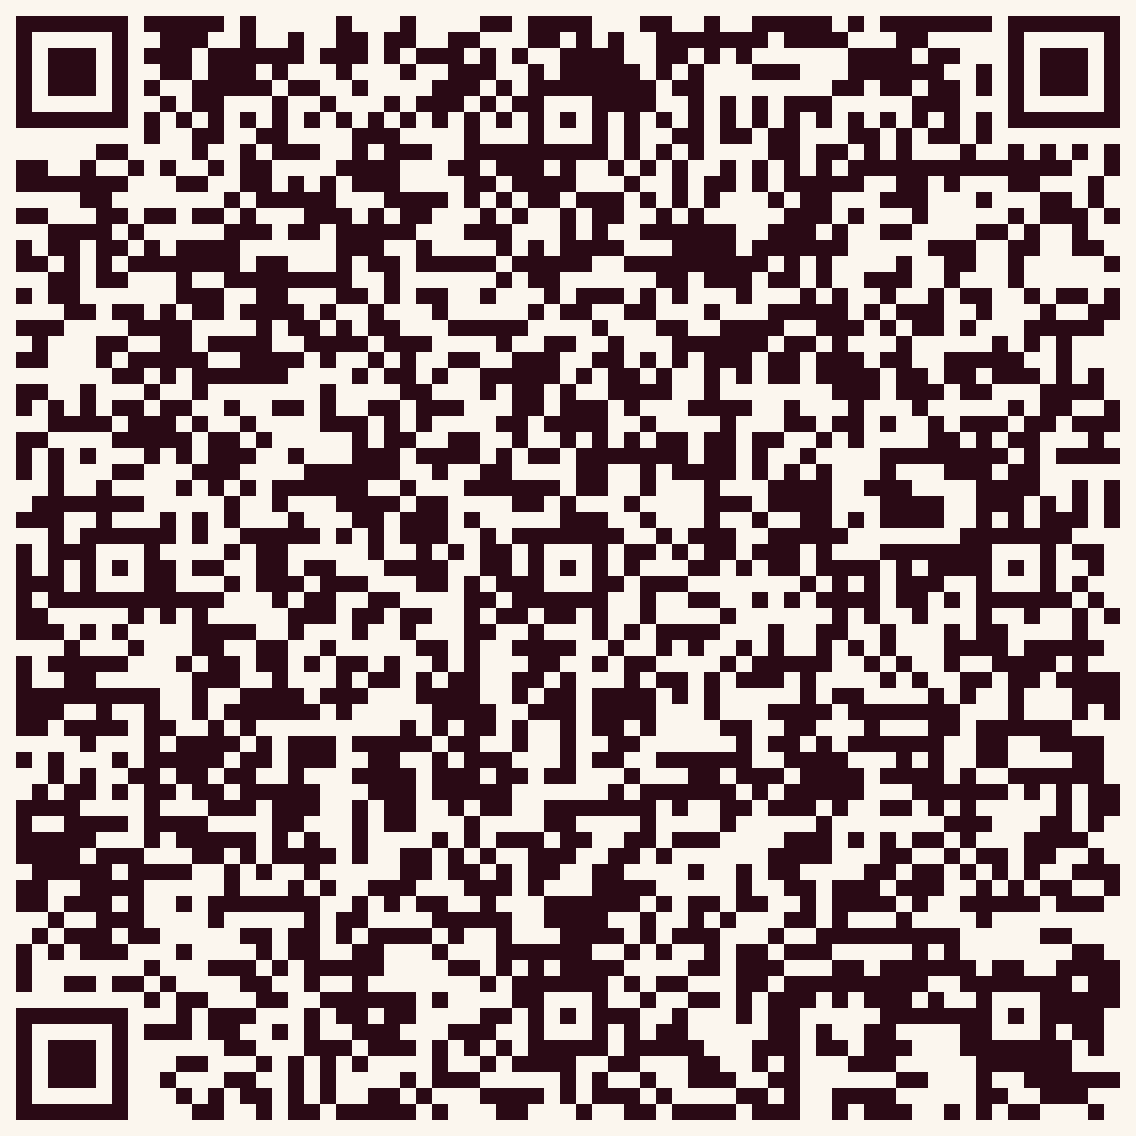
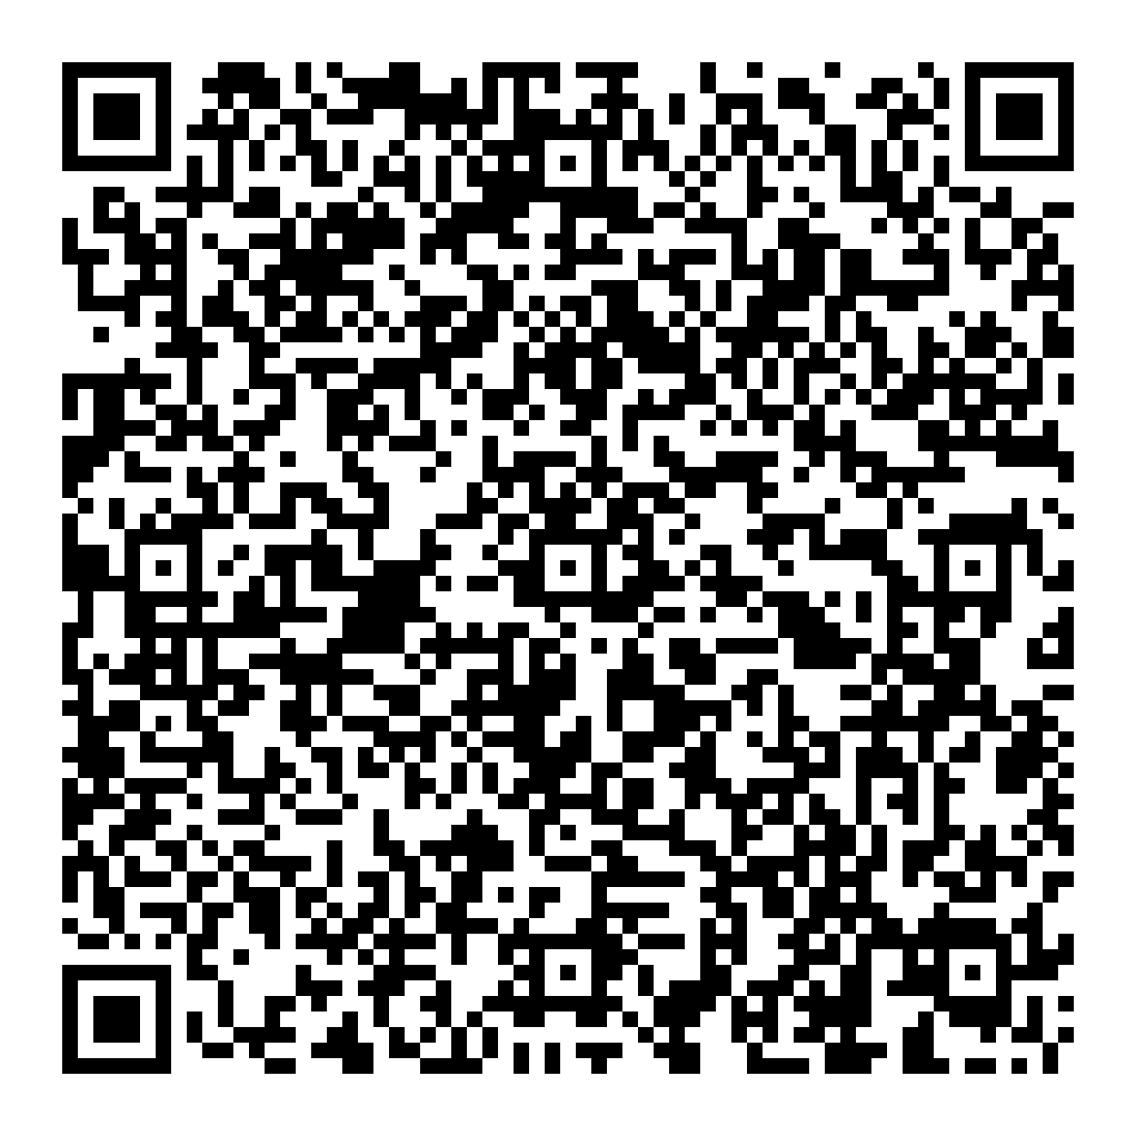
Move ceremony to Santuario de San Ezekiel Moreno Parish
The ceremony and the venue details now name the parish at Villar C5
Extension instead of Villar SIPAG Hall 1, and the directions QR code
in the venue card was regenerated to match. The reception is
unchanged — it stays at Villar SIPAG Hall 1.

Also refresh the gallery: adds moment5, moments6, moment7 and moment8,
drops a duplicate shot, promotes one of the moments photos to the
story section, and rebuilds manifest.json so all twelve photos appear
in the marquee.

Claude-Session: https://claude.ai/code/session_0192jwjzEetyvpnTFPXJEAP9

diff --git a/index.html b/index.html
@@ -545,7 +545,7 @@ a:focus-visible, button:focus-visible, input:focus-visible, textarea:focus-visib
     <div class="hero-eyebrow">Together With Their Families</div>
     <h1 class="hero-names">Angel <span class="hero-amp">&amp;</span> Jason</h1>
     <div class="hero-date">December 30, 2026</div>
-    <p class="hero-loc">Villar SIPAG Hall 1 &middot; Las Pi&ntilde;as City, Metro Manila</p>
+    <p class="hero-loc">Santuario de San Ezekiel Moreno Parish &middot; Las Pi&ntilde;as City, Metro Manila</p>
     <div class="hero-cta-row">
       <a href="#rsvp" class="btn btn-solid">RSVP</a>
       <a href="#details" class="btn btn-outline">Wedding Details</a>
@@ -623,7 +623,7 @@ a:focus-visible, button:focus-visible, input:focus-visible, textarea:focus-visib
       <div class="detail-card">
         <svg class="detail-icon" viewBox="0 0 40 40" fill="none" stroke="currentColor" stroke-width="1.2"><path d="M20 6c-6 0-11 5-11 11 0 8 11 17 11 17s11-9 11-17c0-6-5-11-11-11z"/><circle cx="20" cy="17" r="3.4"/></svg>
         <h3>Ceremony</h3>
-        <p><span class="strong">Villar SIPAG Hall 1</span>Time to be announced &mdash; details coming soon</p>
+        <p><span class="strong">Santuario de San Ezekiel Moreno Parish</span>Time to be announced &mdash; details coming soon<br />Villar C5 Extension, Las Pi&ntilde;as City</p>
       </div>
       <div class="detail-card">
         <svg class="detail-icon" viewBox="0 0 40 40" fill="none" stroke="currentColor" stroke-width="1.2"><path d="M8 34V16l12-9 12 9v18"/><path d="M16 34V22h8v12"/></svg>
@@ -633,9 +633,9 @@ a:focus-visible, button:focus-visible, input:focus-visible, textarea:focus-visib
       <div class="detail-card">
         <svg class="detail-icon" viewBox="0 0 40 40" fill="none" stroke="currentColor" stroke-width="1.2"><path d="M20 6l4 8 9 1.3-6.5 6.3L28 30l-8-4.3L12 30l1.5-8.4L7 15.3 16 14z"/></svg>
         <h3>Venue &amp; Location</h3>
-        <p><span class="strong">Villar SIPAG Complex</span>C-5 Extension Road, Brgy. Pulang Lupa Uno, Las Pi&ntilde;as City, Metro Manila</p>
-        <a class="detail-map-qr" href="https://www.google.com/maps/search/?api=1&query=Villar%20SIPAG%20Complex%2C%20C-5%20Extension%20Road%2C%20Barangay%20Pulang%20Lupa%20Uno%2C%20Las%20Pi%C3%B1as%20City" target="_blank" rel="noopener" aria-label="Open directions to Villar SIPAG Complex in Google Maps">
-          <img src="assets/qr-directions.png" alt="QR code with directions to Villar SIPAG Complex" loading="lazy" />
+        <p><span class="strong">Santuario de San Ezekiel Moreno Parish</span>Villar C5 Extension, Las Pi&ntilde;as City, Metro Manila</p>
+        <a class="detail-map-qr" href="https://www.google.com/maps/search/?api=1&query=Santuario%20de%20San%20Ezekiel%20Moreno%20Parish%2C%20Villar%20C5%20Extension%2C%20Las%20Pi%C3%B1as%20City" target="_blank" rel="noopener" aria-label="Open directions to Santuario de San Ezekiel Moreno Parish in Google Maps">
+          <img src="assets/qr-directions.png" alt="QR code with directions to Santuario de San Ezekiel Moreno Parish" loading="lazy" />
           <span>Scan or Tap for Directions</span>
         </a>
       </div>
